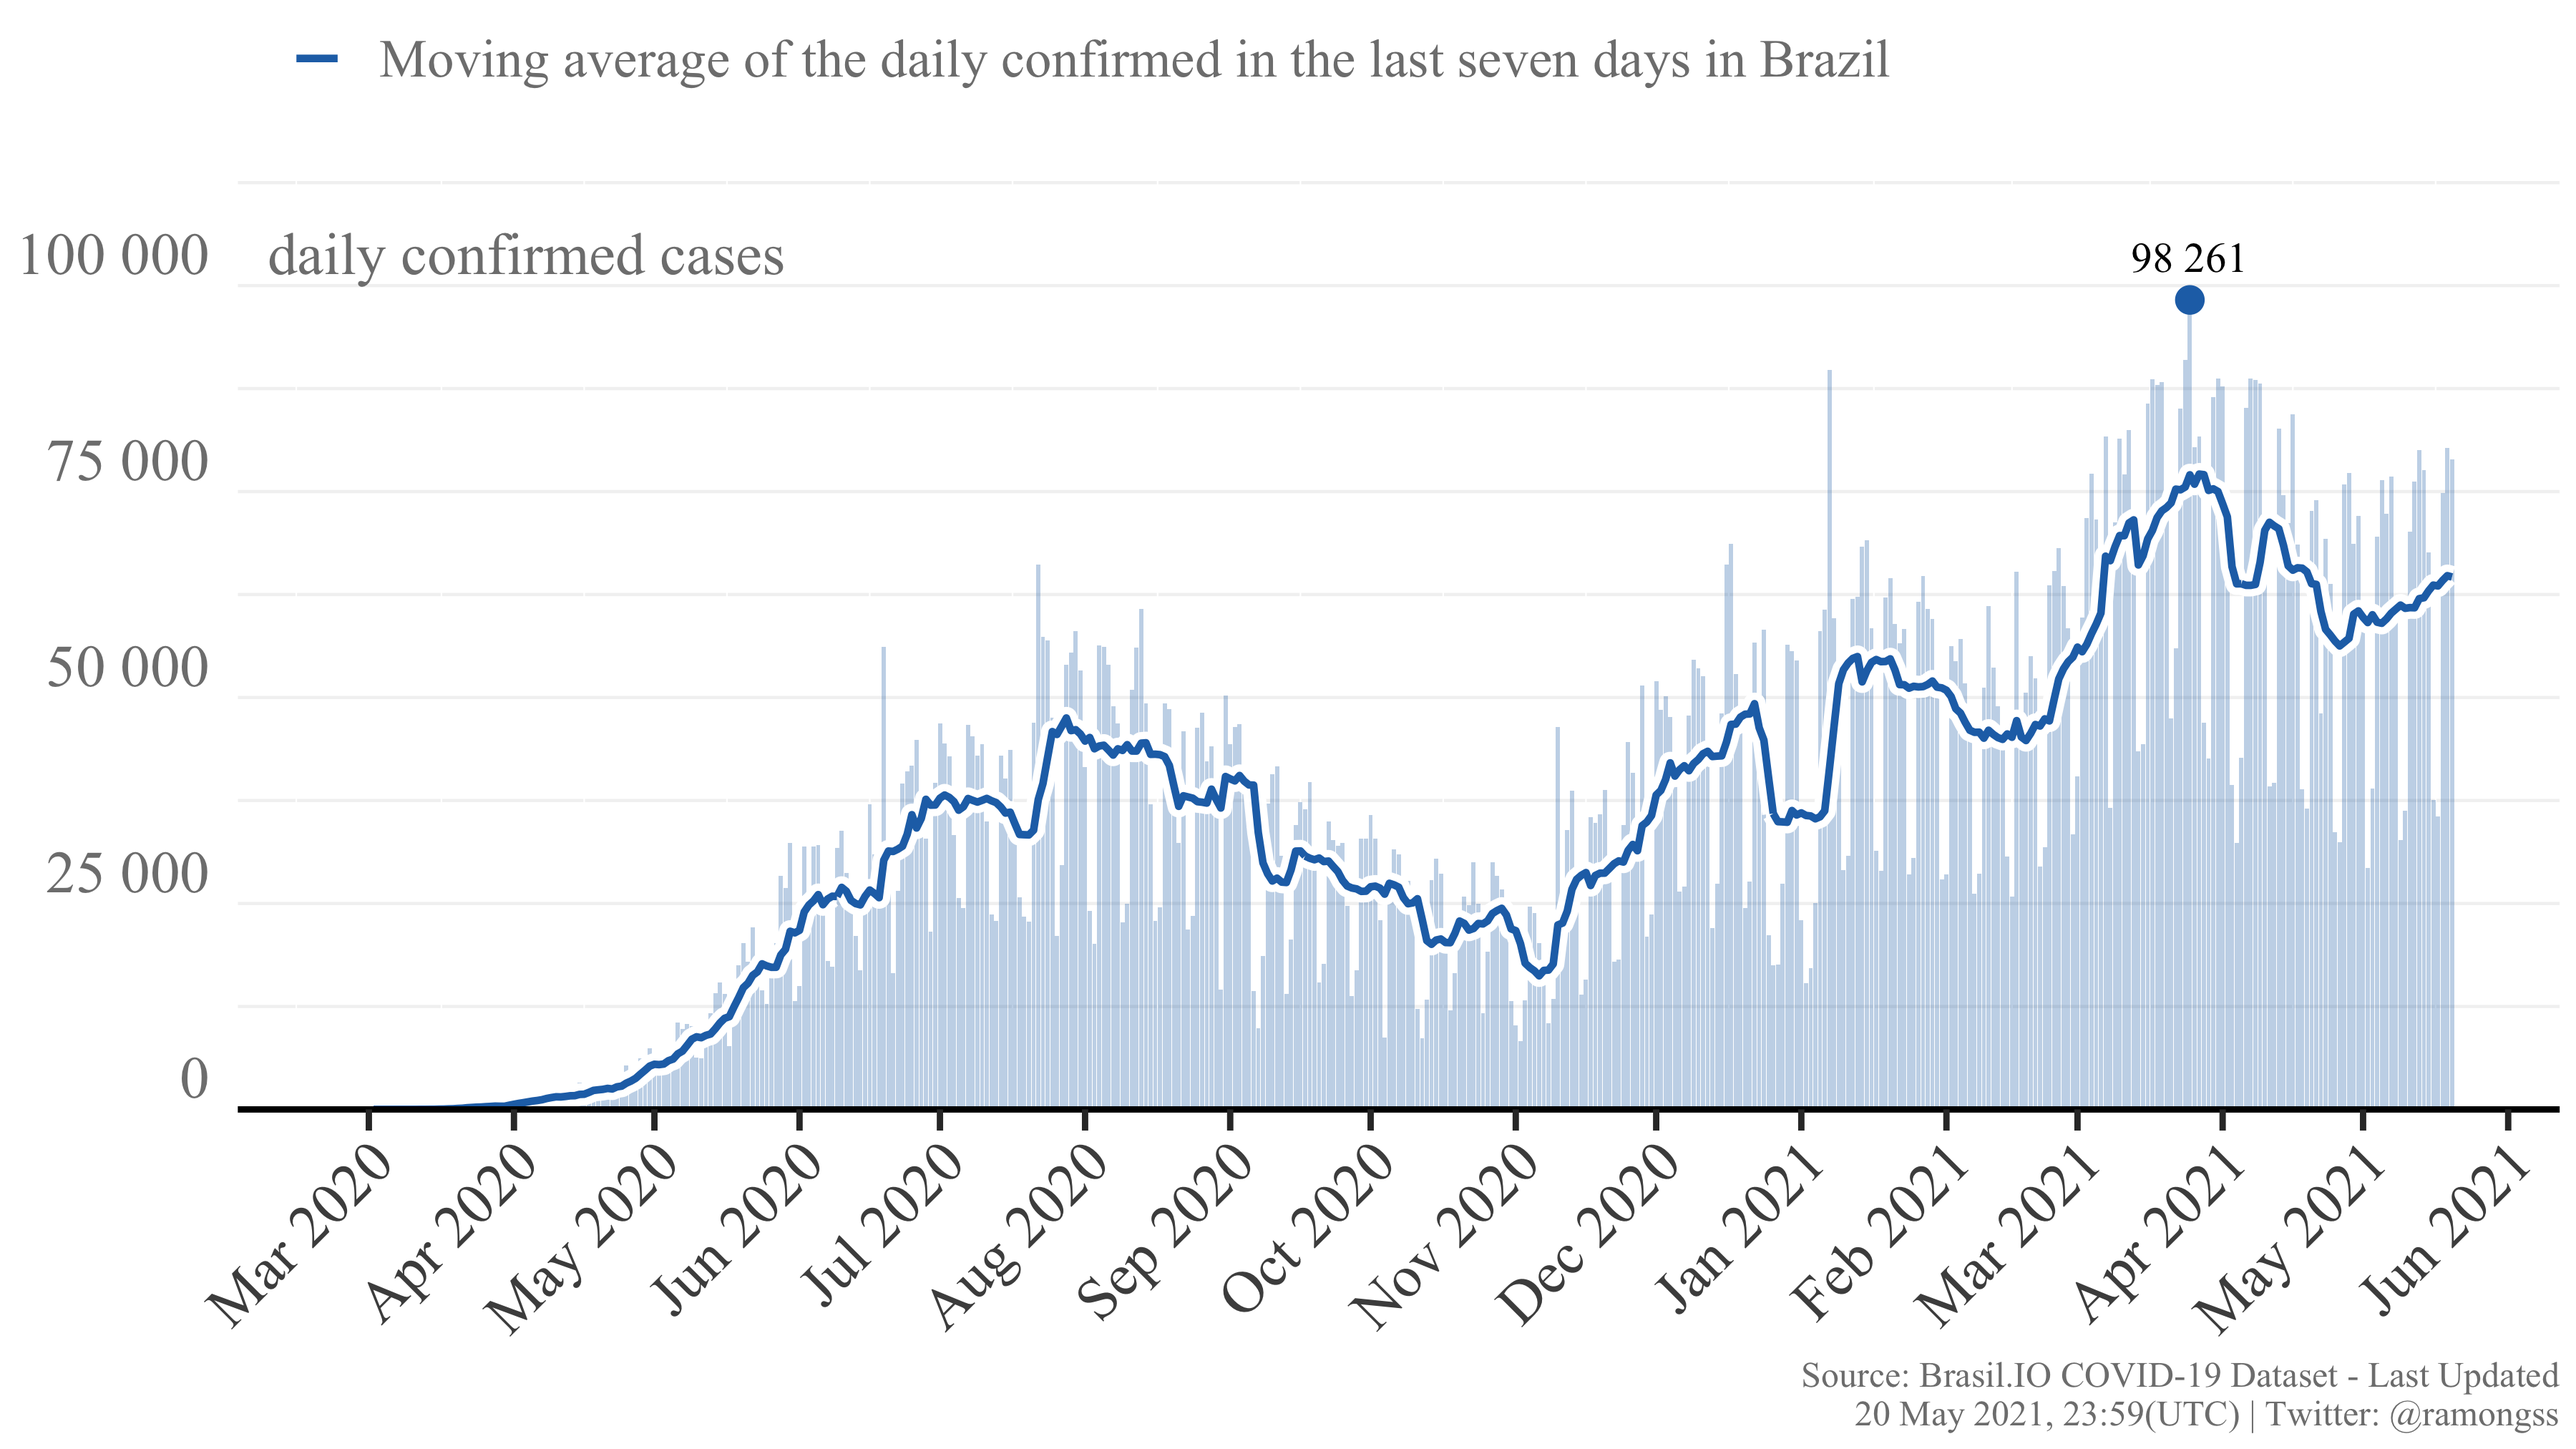
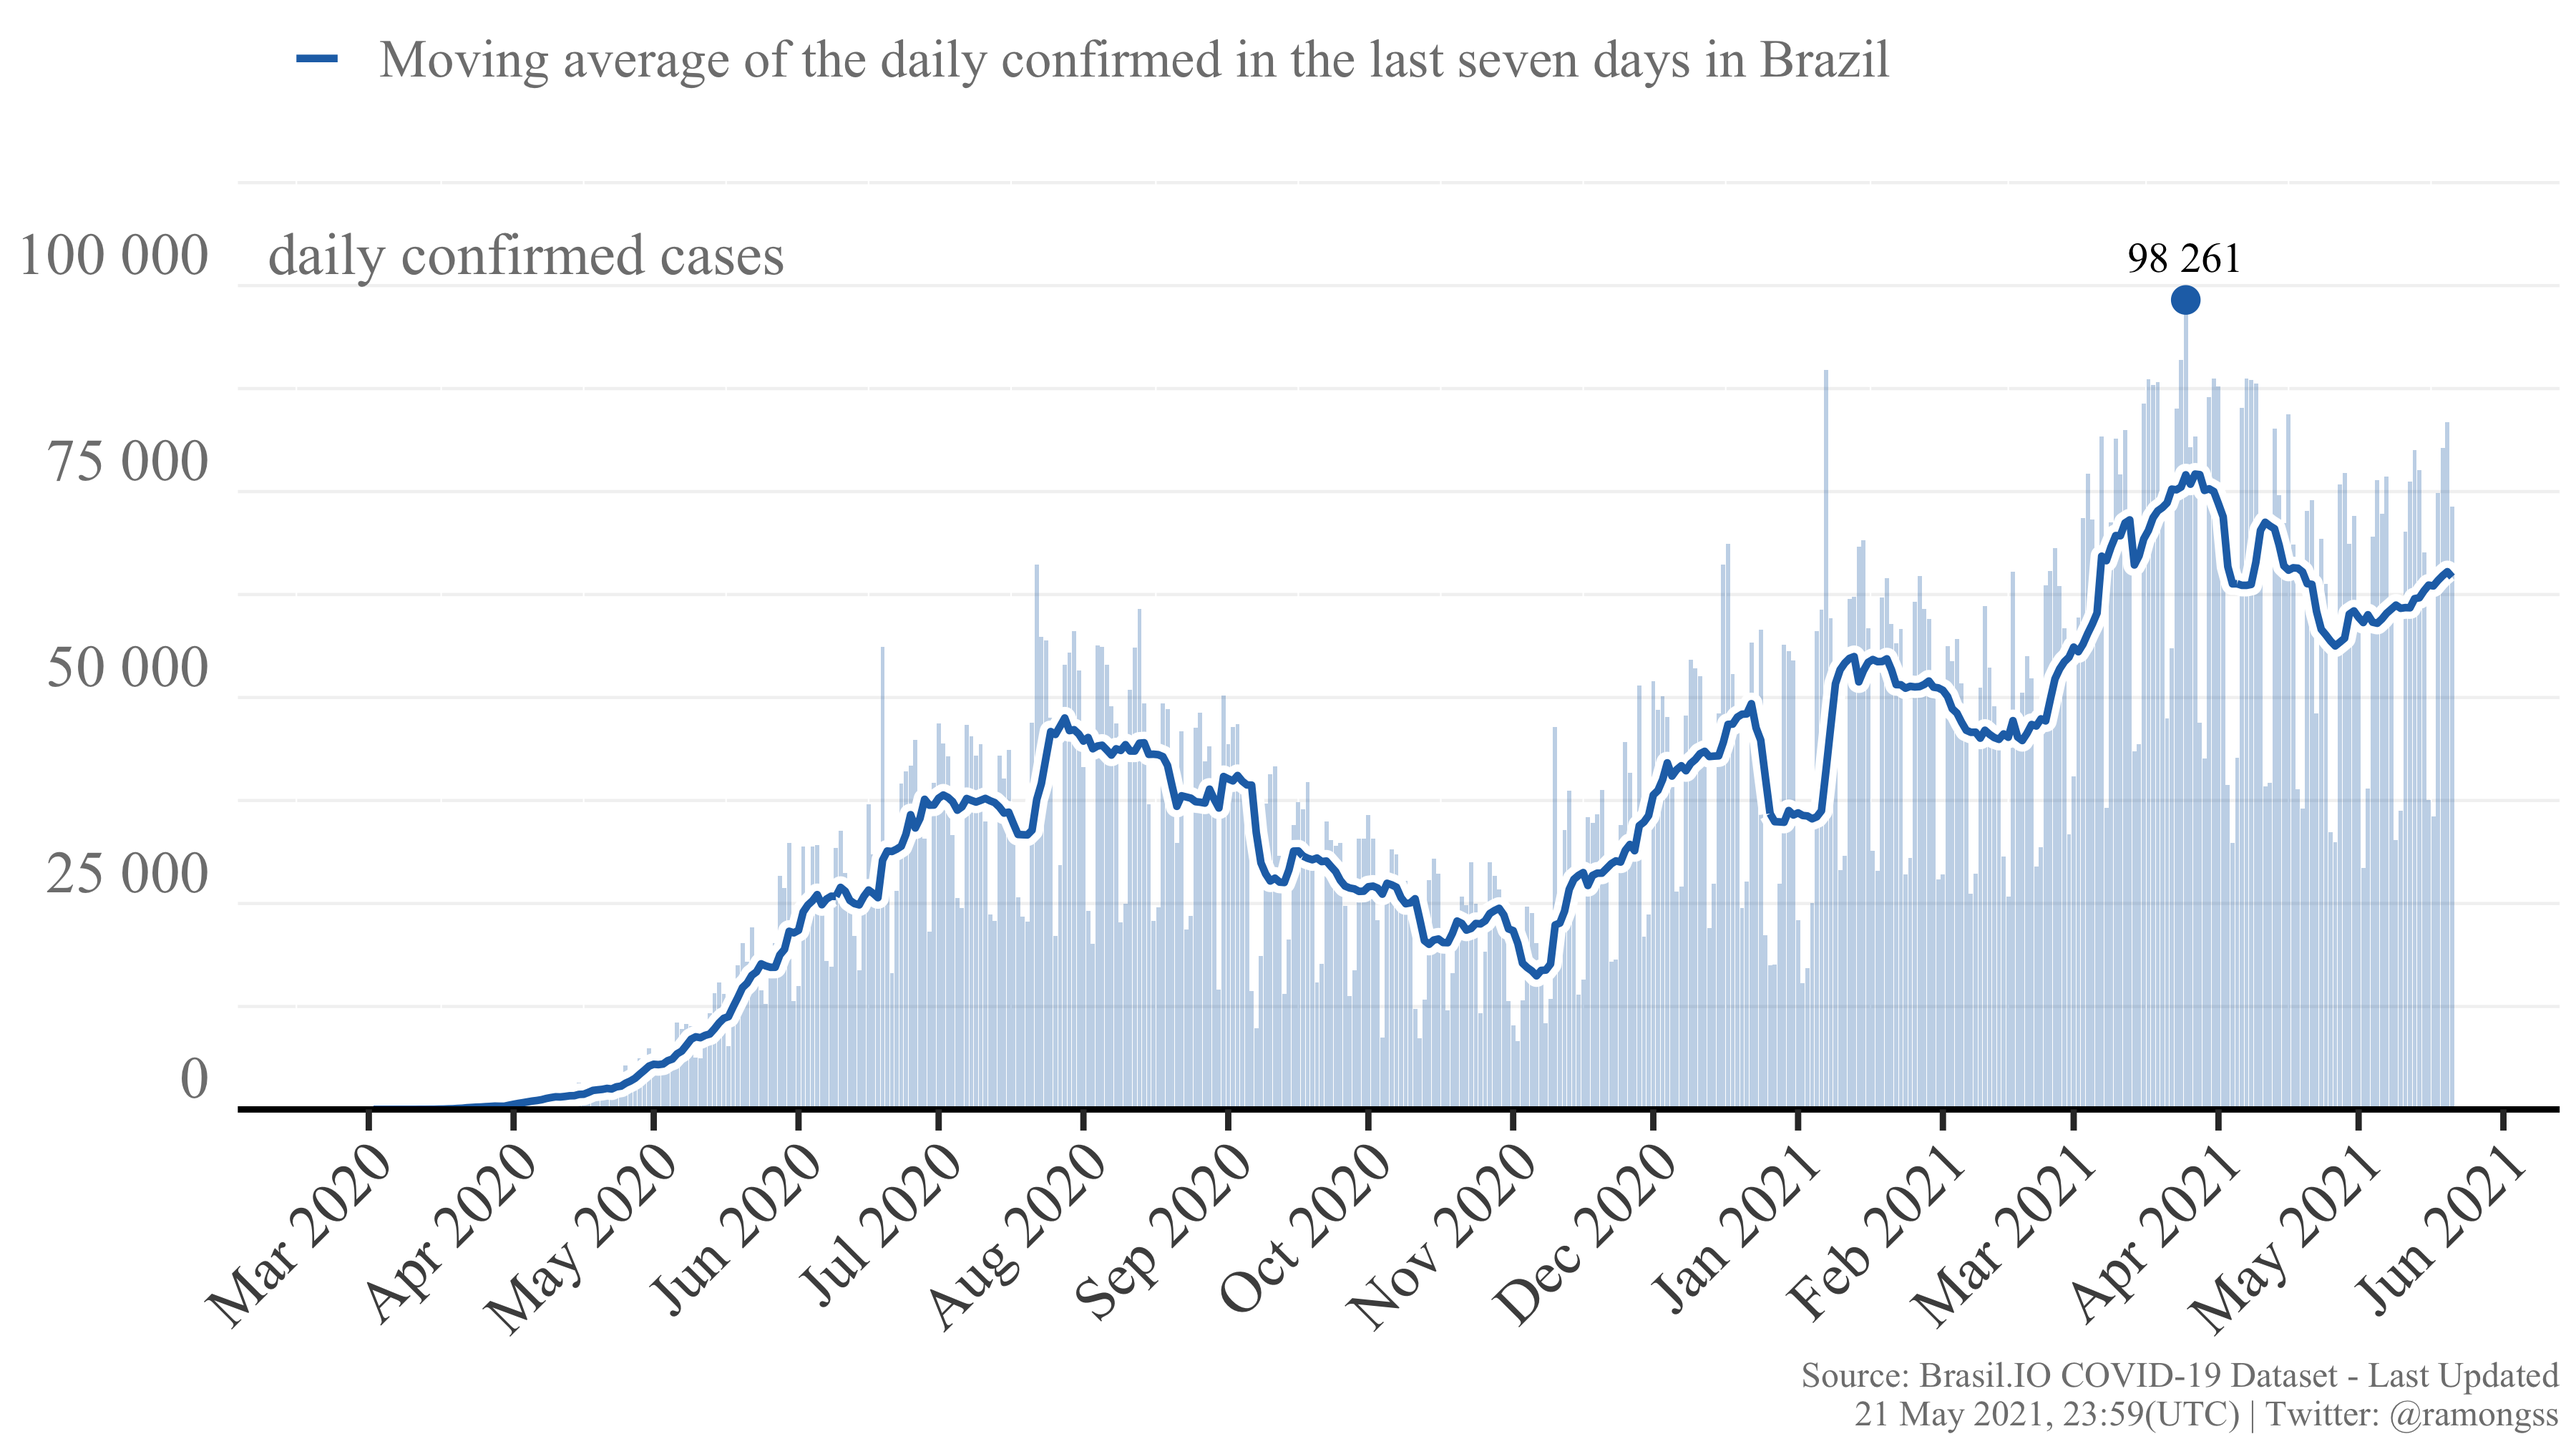
Re-build README.Rmd

diff --git a/README.md b/README.md
@@ -27,8 +27,8 @@ download_brasilio_table <- function(dataset = "covid19", table_name){
 
 ## COVID-19 Confirmed cases
 
-Currently, Brazil has a total of **15,906,292** confirmed cases at **20
-May, 2021**, with **78,917** new confirmed cases. The daily maximum
+Currently, Brazil has a total of **15,983,913** confirmed cases at **21
+May, 2021**, with **73,151** new confirmed cases. The daily maximum
 incidence was **98,261** confirmed cases at **25 Mar, 2021**. Here
 follows the Figure showing the confirmed case incidence as the bars, and
 the line as the moving average of the last 7 days.
@@ -37,8 +37,8 @@ the line as the moving average of the last 7 days.
 
 ## COVID-19 Deaths
 
-Currently, Brazil has a total of **444,577** deaths at **20 May, 2021**,
-with **2,441** new deaths. The daily maximum deaths incidence was
+Currently, Brazil has a total of **446,710** deaths at **21 May, 2021**,
+with **2,063** new deaths. The daily maximum deaths incidence was
 **4,148** deaths at **08 Apr, 2021**. Here follows the Figure showing
 the deaths incidence as the bars, and the line as the moving average of
 the last 7 days.
@@ -49,4 +49,4 @@ the last 7 days.
 
 This page is daily updated automatically using Github Actions.
 
-*Last update: 20 May 2021, 23:59 (UTC).*
+*Last update: 21 May 2021, 23:59 (UTC).*
